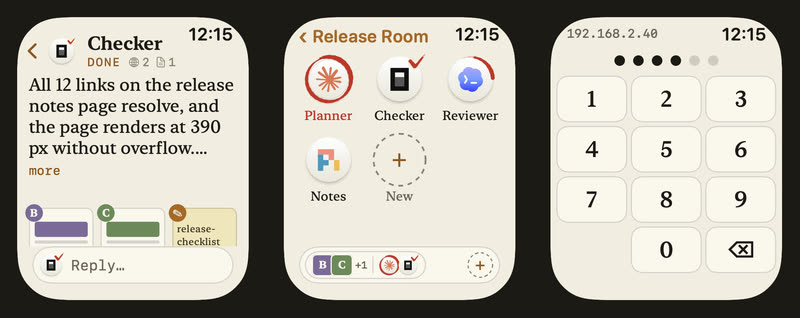
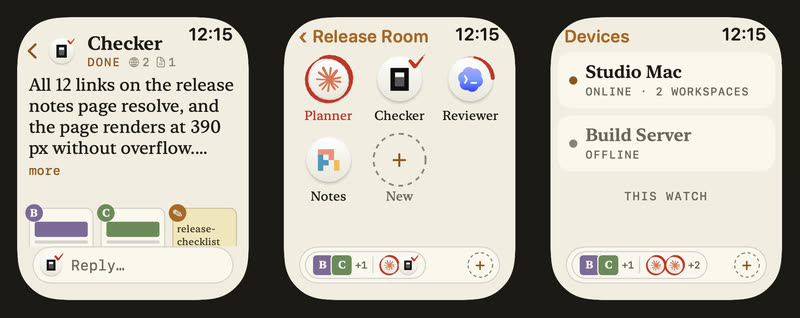
fix(site): the watch strip's third screen is the devices; the hero fits a 390 px phone
w45-18 is the pairing keypad (13b shifts the numbers after it); the devices
screen is w45-19. Under 900 px the hero's one column was 1fr, so the tagline's
nowrap widened the page to 401 px; it is minmax(0,1fr) and the tagline wraps.

diff --git a/registry/src/site-shell.ts b/registry/src/site-shell.ts
@@ -663,7 +663,7 @@ footer nav a{font:8.5px var(--font-pixel);letter-spacing:.06em;text-transform:up
   .toc .jump{display:none}
 }
 .hero .wrap{display:grid;gap:34px;grid-template-columns:minmax(0,6fr) minmax(0,7fr);align-items:center}
-@media (max-width:900px){.hero .wrap{grid-template-columns:1fr}}
+@media (max-width:900px){.hero .wrap{grid-template-columns:minmax(0,1fr)}.hero .wrap .tagline{white-space:normal}}
 .hero h1{margin-bottom:12px;font-size:clamp(34px,4.3vw,56px);max-width:12ch}
 /* the lockup is the header's mark writ large — a brand beat, not a billboard.
    site-brand.ts sizes it for a full-width band; in the hero it shares the
